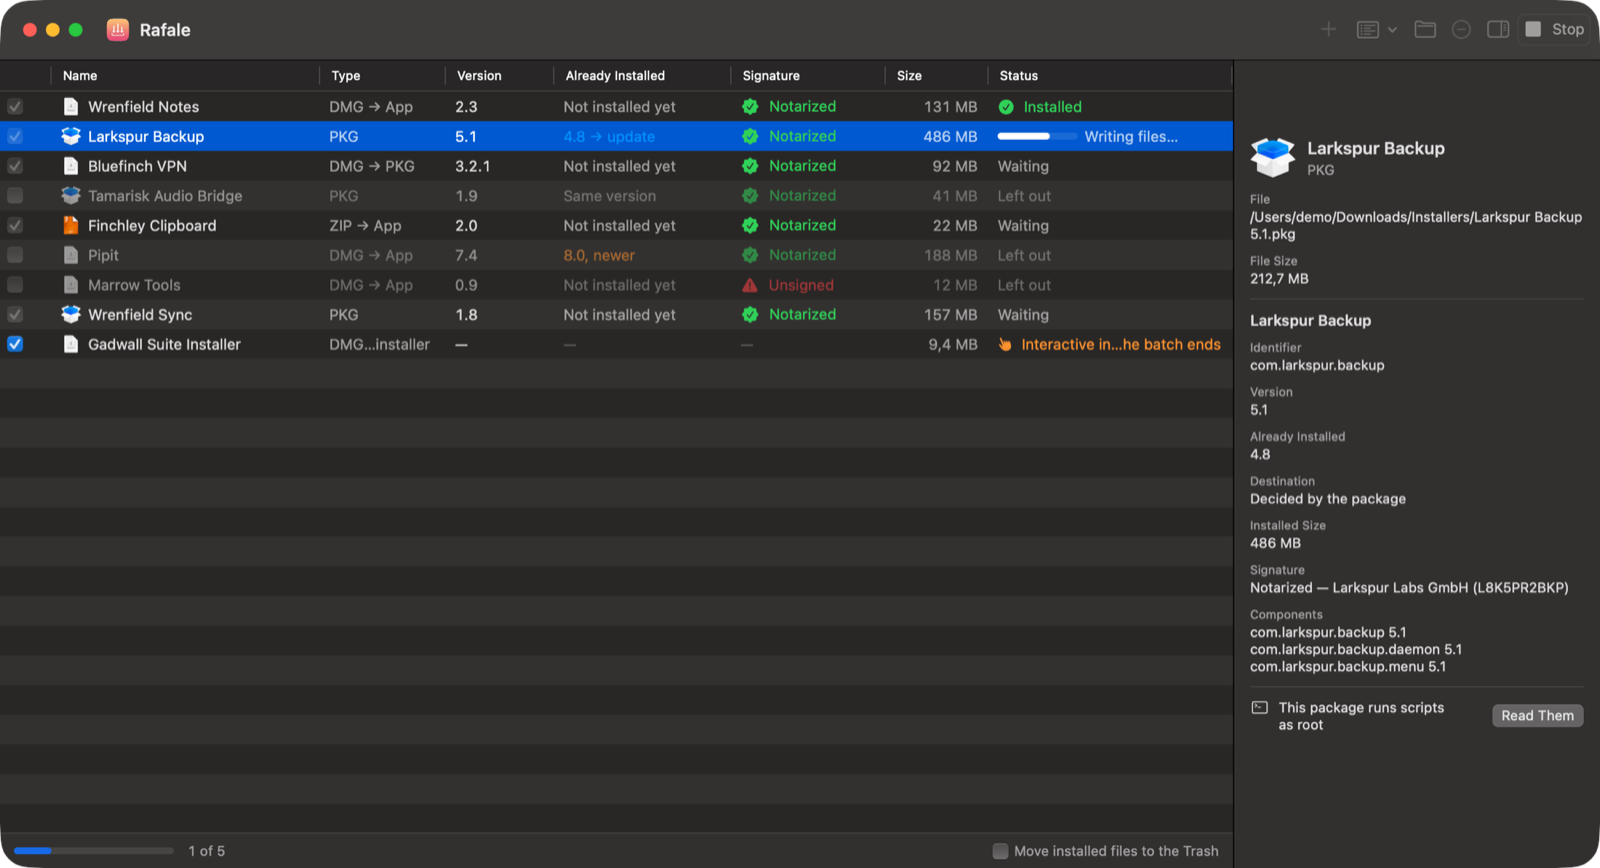
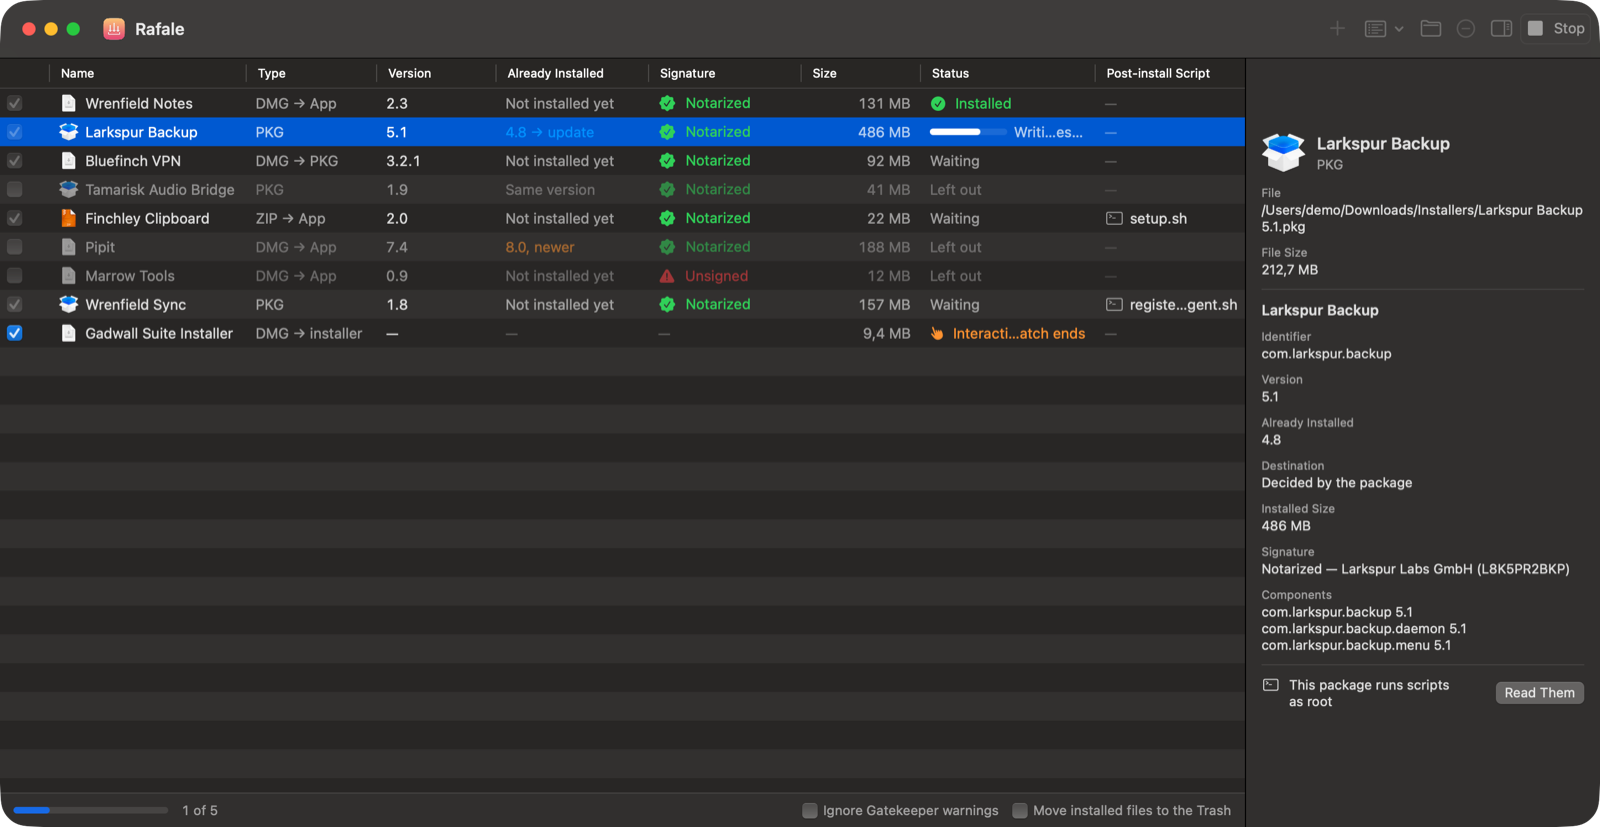
Present Rafale's post-install scripts

diff --git a/index.html b/index.html
@@ -192,15 +192,16 @@
           <li><b>You see before you install</b>: version, signature, notarization, what is already there</li>
           <li><b>Unsigned software is never installed silently</b></li>
           <li><b>Read the scripts</b> a package would run as root</li>
+          <li><b>Post-install scripts ride along</b>: a .sh or .py next to an installer runs after it, output shown live</li>
         </ul>
         <div class="actions">
           <a class="btn primary" href="https://github.com/blckdvc/Rafale/releases/latest">Download</a>
           <a class="btn" href="https://github.com/blckdvc/Rafale">Source</a>
-          <span class="meta" data-repo="Rafale">v0.1.0 · Swift</span>
+          <span class="meta" data-repo="Rafale">v0.2.0 · Swift</span>
         </div>
       </div>
       <div class="shot">
-        <a href="assets/rafale.png"><img src="assets/rafale.png" width="1600" height="868" loading="lazy" alt="Rafale installing a batch: one item installed, one being written, the others waiting"></a>
+        <a href="assets/rafale.png"><img src="assets/rafale.png" width="1600" height="827" loading="lazy" alt="Rafale installing a batch: one item installed, one being written, the others waiting"></a>
       </div>
     </div>
   </section>
